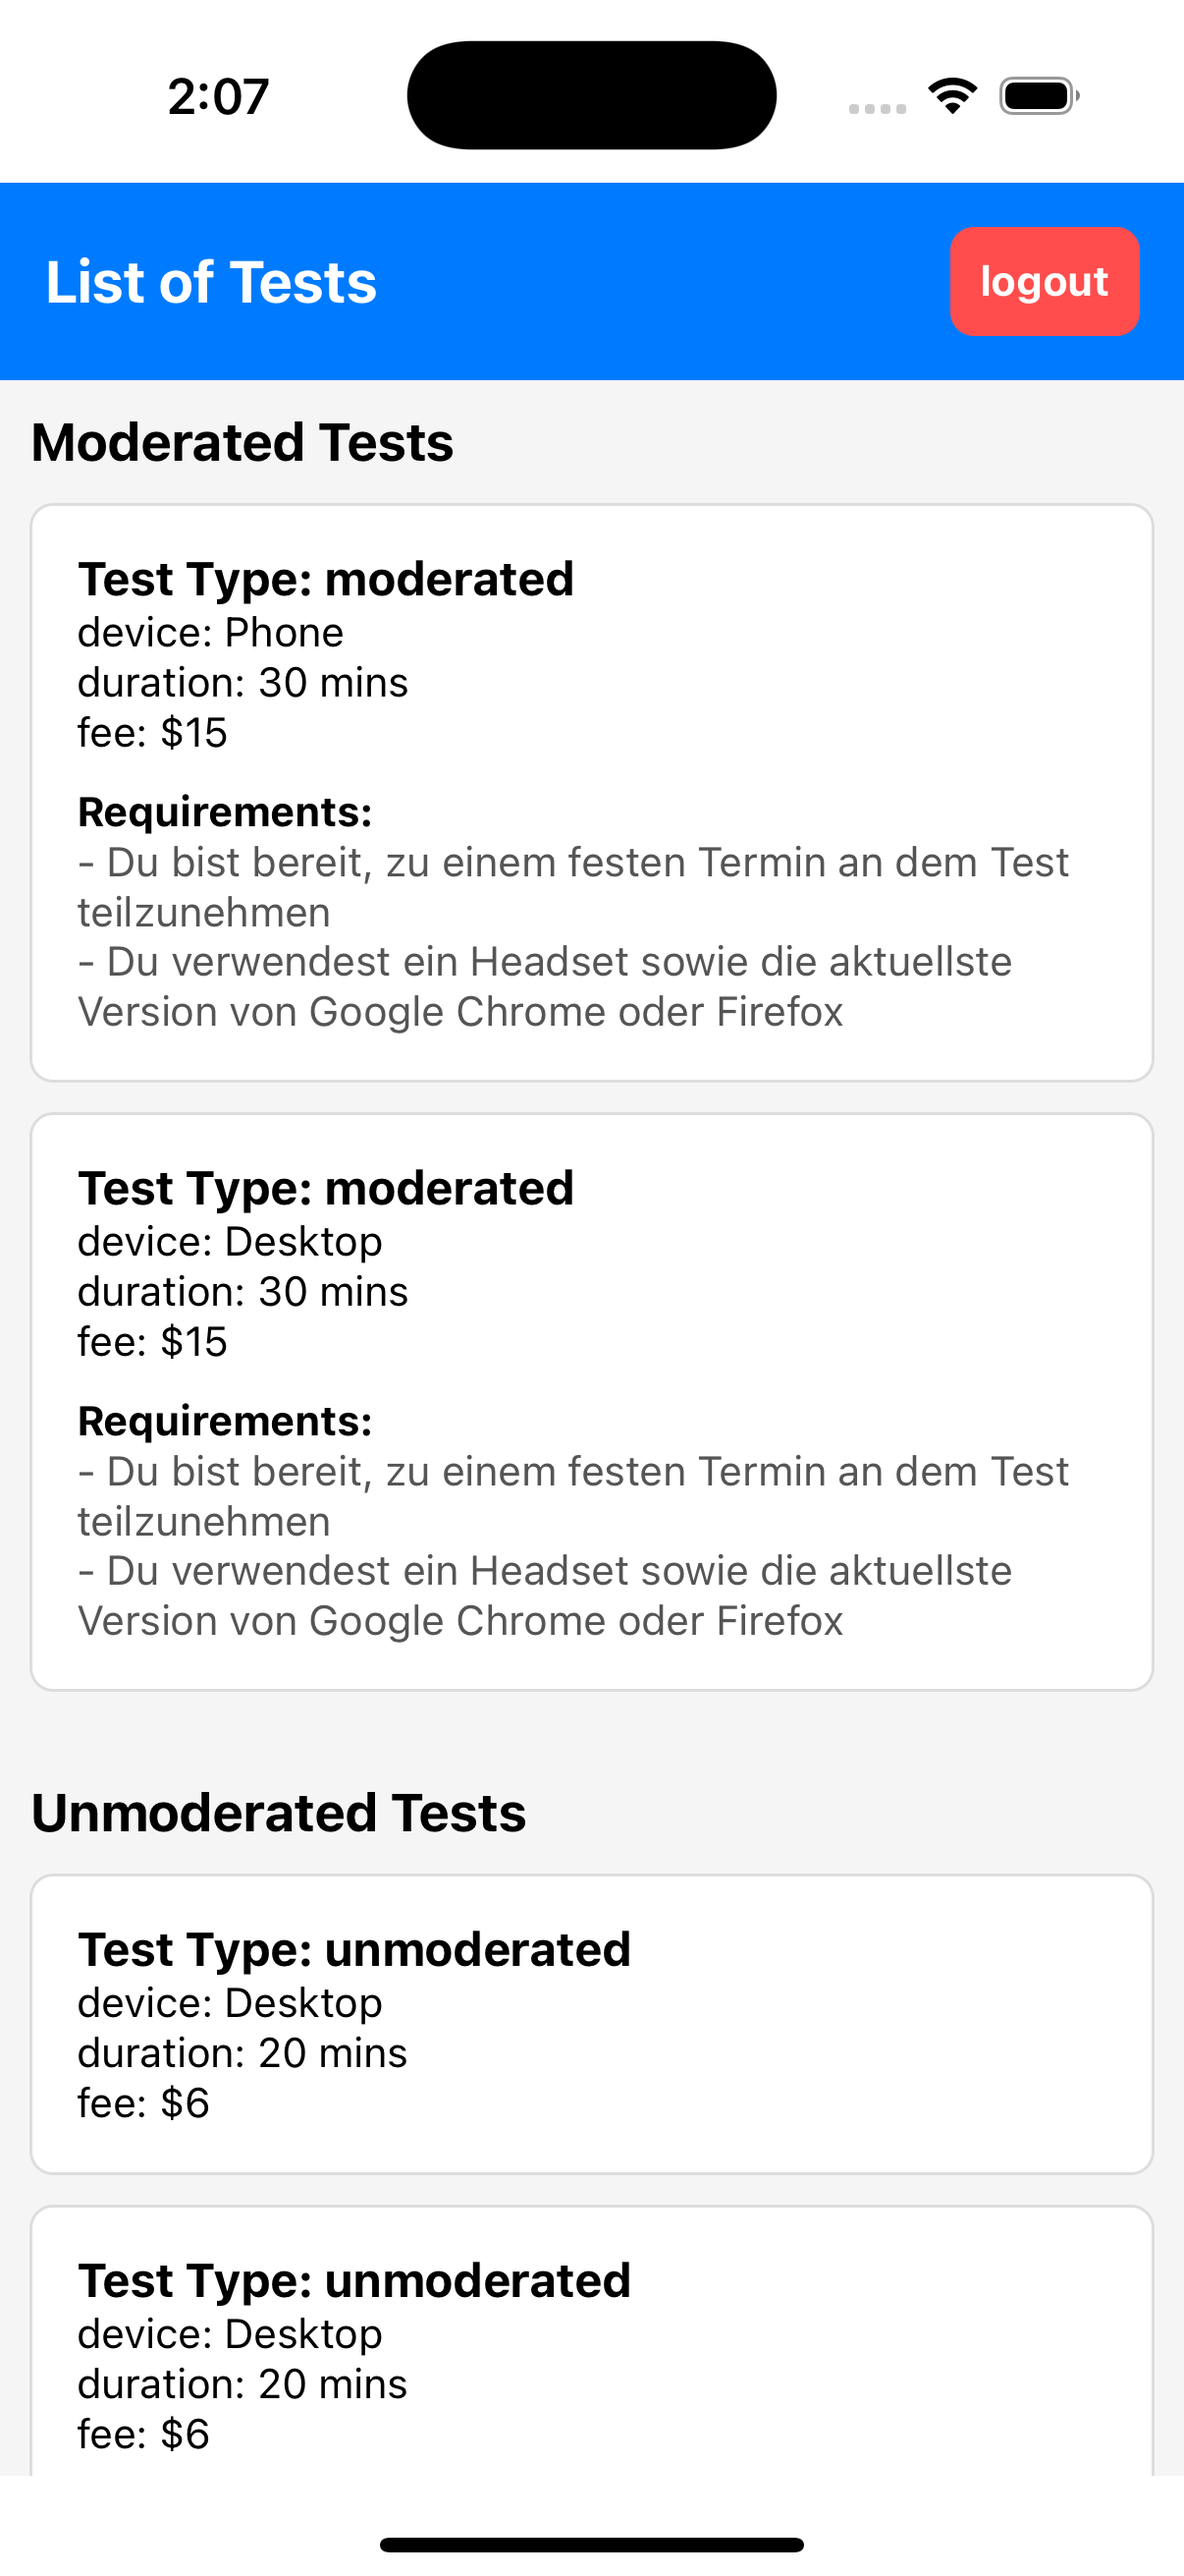
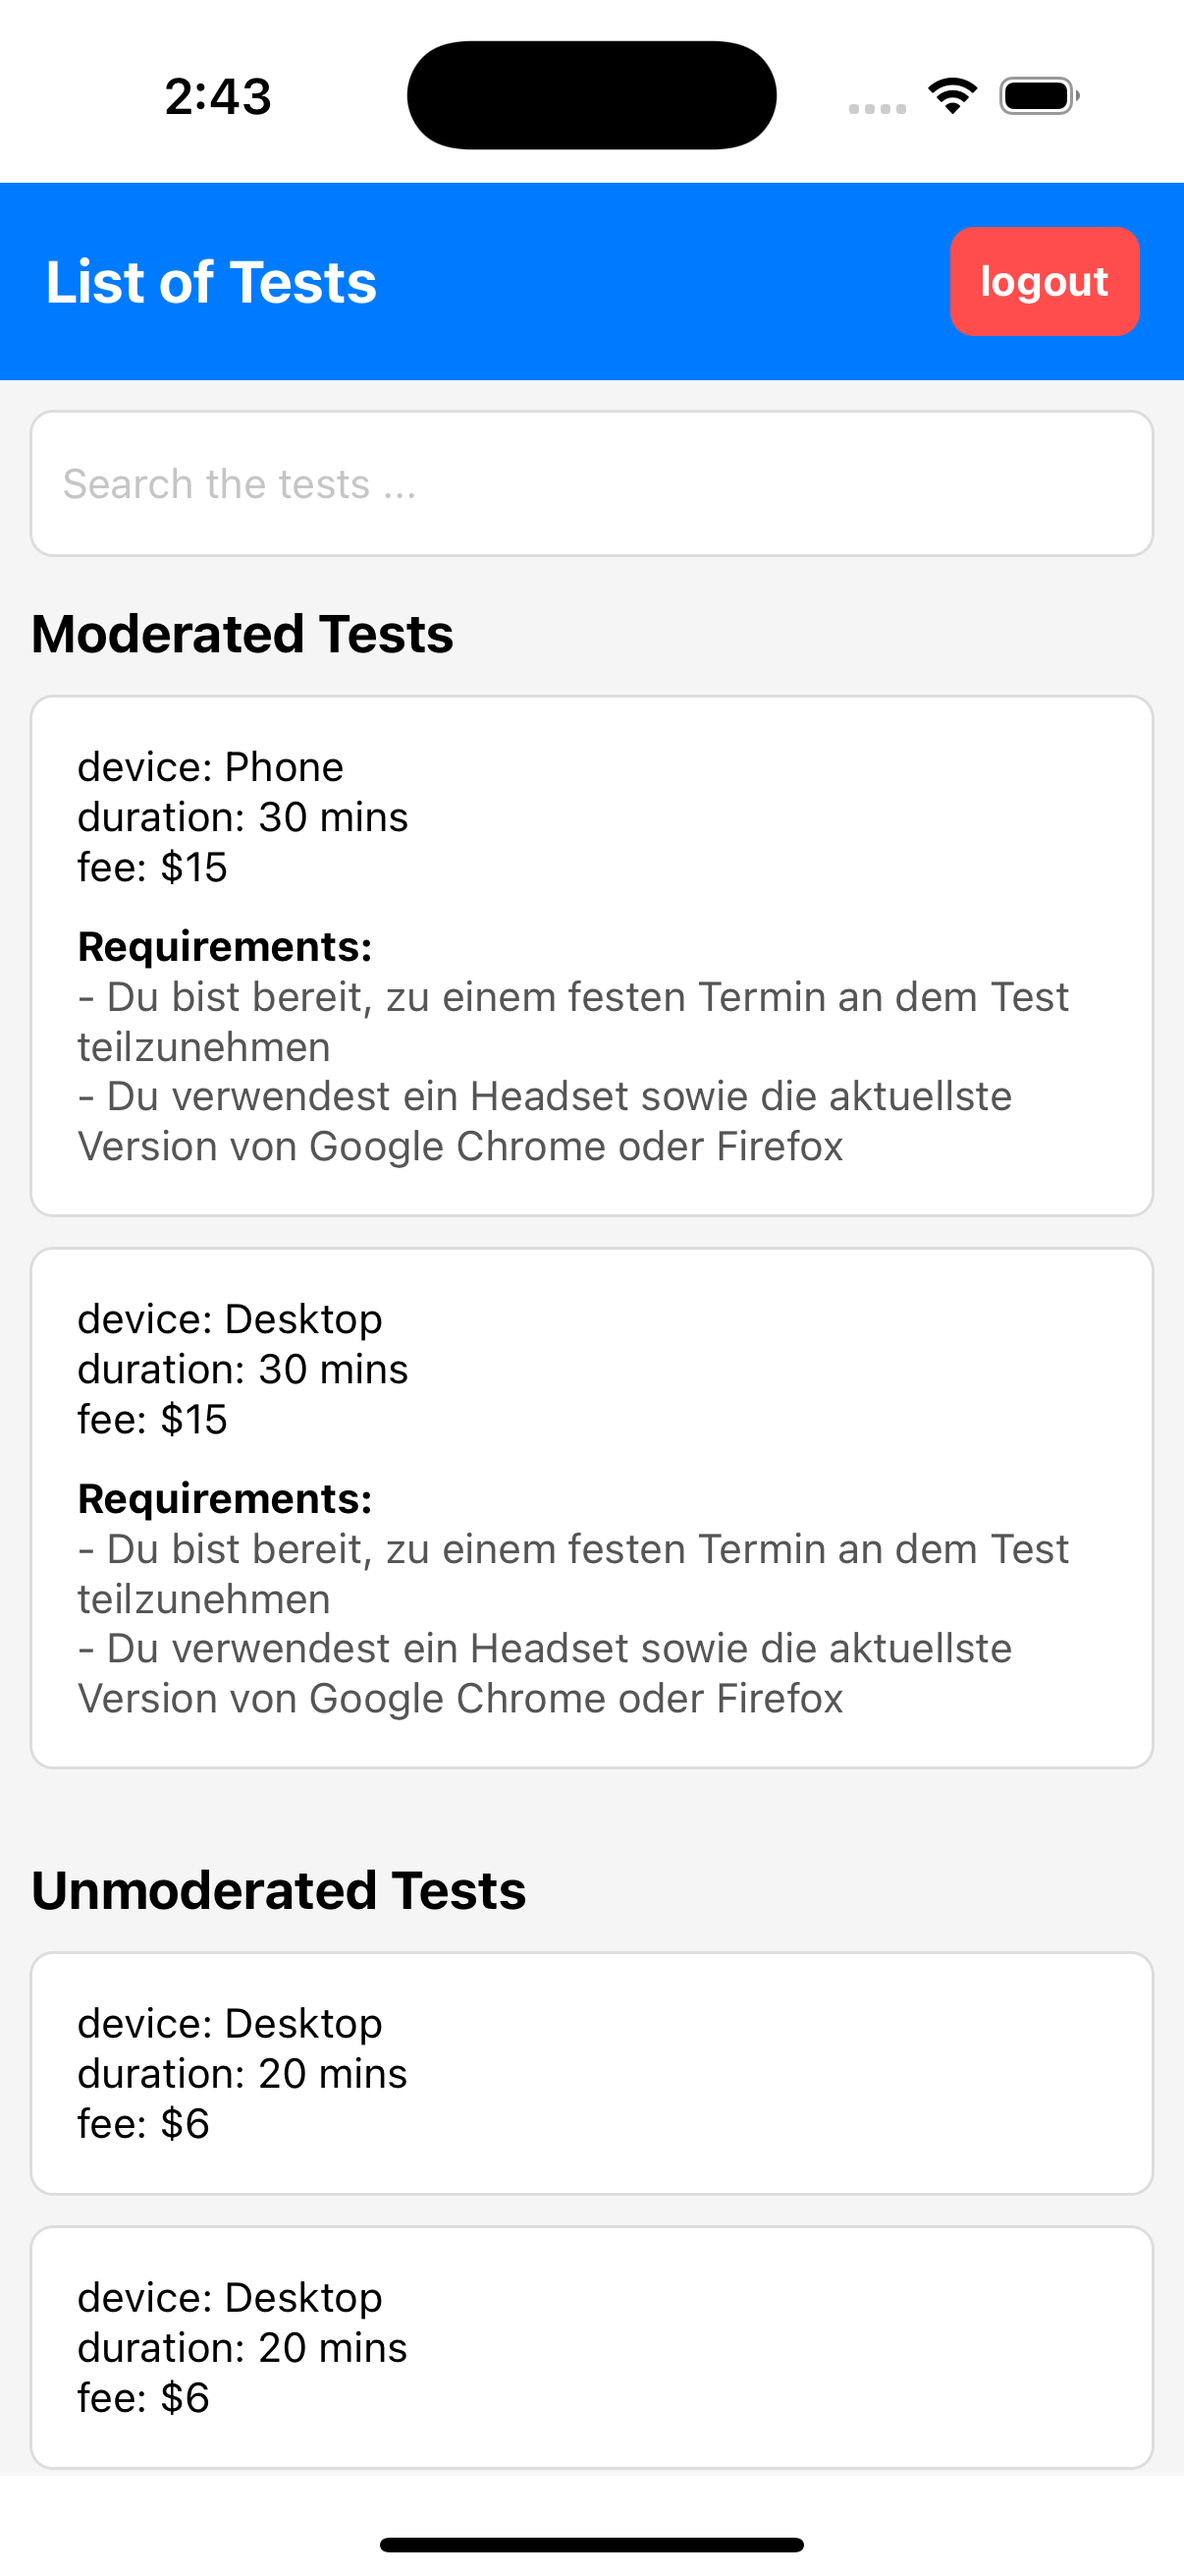
adding searching in the list of tests

diff --git a/src/screens/TestsListScreen.tsx b/src/screens/TestsListScreen.tsx
@@ -8,20 +8,21 @@ import {
     Alert,
     SafeAreaView,
     ActivityIndicator,
+    TextInput,
 } from 'react-native';
-
-
 
 import strings from '../constants/strings';
 import { useNavigation } from '@react-navigation/native';
 import ApiService from '../services/ApiService';
 import LocalStorageService from '../services/LocalStorageService';
 
-
 const TestsListScreen: React.FC = () => {
     const navigation = useNavigation();
     const [moderatedTests, setModeratedTests] = useState([]);
     const [unmoderatedTests, setUnmoderatedTests] = useState([]);
+    const [filteredModeratedTests, setFilteredModeratedTests] = useState([]);
+    const [filteredUnmoderatedTests, setFilteredUnmoderatedTests] = useState([]);
+    const [searchQuery, setSearchQuery] = useState('');
     const [isLoading, setIsLoading] = useState(true);
 
     useEffect(() => {
@@ -32,7 +33,7 @@ const TestsListScreen: React.FC = () => {
                 const api = ApiService.getInstance();
                 const response = await api.get('/tests', {
                     headers: {
-                        Authorization: `Bearer ${token}`, 
+                        Authorization: `Bearer ${token}`,
                     },
                 });
 
@@ -40,6 +41,8 @@ const TestsListScreen: React.FC = () => {
 
                 setModeratedTests(response.data.mod_rut_tests || []);
                 setUnmoderatedTests(response.data.standard_tests || []);
+                setFilteredModeratedTests(response.data.mod_rut_tests || []);
+                setFilteredUnmoderatedTests(response.data.standard_tests || []);
             } catch (error: any) {
                 Alert.alert('Failed to Fetch Tests', error.response?.data?.message || error.message);
             } finally {
@@ -60,17 +63,36 @@ const TestsListScreen: React.FC = () => {
                 text: strings.testsList.logout,
                 onPress: () => {
                     LocalStorageService.clearTokens();
-                
                     navigation.navigate('Login');
                 },
             },
         ]);
     };
 
-    
+    const handleSearch = (query: string) => {
+        setSearchQuery(query);
+
+        if (!query) {
+            setFilteredModeratedTests(moderatedTests);
+            setFilteredUnmoderatedTests(unmoderatedTests);
+            return;
+        }
+
+        const filteredModerated = moderatedTests.filter((test) =>
+            test.test_type.toLowerCase().includes(query.toLowerCase()) ||
+            test.device_name.toLowerCase().includes(query.toLowerCase())
+        );
+        const filteredUnmoderated = unmoderatedTests.filter((test) =>
+            test.test_type.toLowerCase().includes(query.toLowerCase()) ||
+            test.device_name.toLowerCase().includes(query.toLowerCase())
+        );
+
+        setFilteredModeratedTests(filteredModerated);
+        setFilteredUnmoderatedTests(filteredUnmoderated);
+    };
+
     const renderTestItem = ({ item }) => (
         <View style={styles.testCard}>
-            <Text style={styles.testType}>Test Type: {item.test_type}</Text>
             <Text>{strings.testsList.device}: {item.device_name}</Text>
             <Text>{strings.testsList.duration}: {item.testDuration} mins</Text>
             <Text>{strings.testsList.fee}: ${item.fee}</Text>
@@ -105,11 +127,18 @@ const TestsListScreen: React.FC = () => {
                 </TouchableOpacity>
             </View>
 
+            <TextInput
+                style={styles.searchInput}
+                placeholder={strings.testsList.search}
+                value={searchQuery}
+                onChangeText={handleSearch}
+            />
+
             <View style={styles.section}>
                 <Text style={styles.sectionTitle}>{strings.testsList.ModeratedTests}</Text>
-                {moderatedTests.length > 0 ? (
+                {filteredModeratedTests.length > 0 ? (
                     <FlatList
-                        data={moderatedTests}
+                        data={filteredModeratedTests}
                         keyExtractor={(item, index) => `mod-${index}`}
                         renderItem={renderTestItem}
                     />
@@ -118,12 +147,11 @@ const TestsListScreen: React.FC = () => {
                 )}
             </View>
 
-            {/* Unmoderated Tests */}
             <View style={styles.section}>
                 <Text style={styles.sectionTitle}>{strings.testsList.UnModeratedTests}</Text>
-                {unmoderatedTests.length > 0 ? (
+                {filteredUnmoderatedTests.length > 0 ? (
                     <FlatList
-                        data={unmoderatedTests}
+                        data={filteredUnmoderatedTests}
                         keyExtractor={(item, index) => `unmod-${index}`}
                         renderItem={renderTestItem}
                     />
@@ -200,6 +228,17 @@ const styles = StyleSheet.create({
         flex: 1,
         justifyContent: 'center',
         alignItems: 'center',
+    },
+    searchInput: {
+        height: 50,
+        borderColor: '#ddd',
+        borderWidth: 1,
+        borderRadius: 8,
+        paddingHorizontal: 10,
+        marginHorizontal: 10,
+        marginBottom: 5,
+        marginTop:10,
+        backgroundColor: '#fff',
     },
 });
 

diff --git a/src/constants/strings.ts b/src/constants/strings.ts
@@ -10,6 +10,7 @@ const strings = {
     },
     testsList:{
       title: 'List of Tests',
+      search:'Search the tests ...',
       messagelogout: 'Are you sure you want to logout?',
       cancel: 'cancel',
       logout: 'logout',
